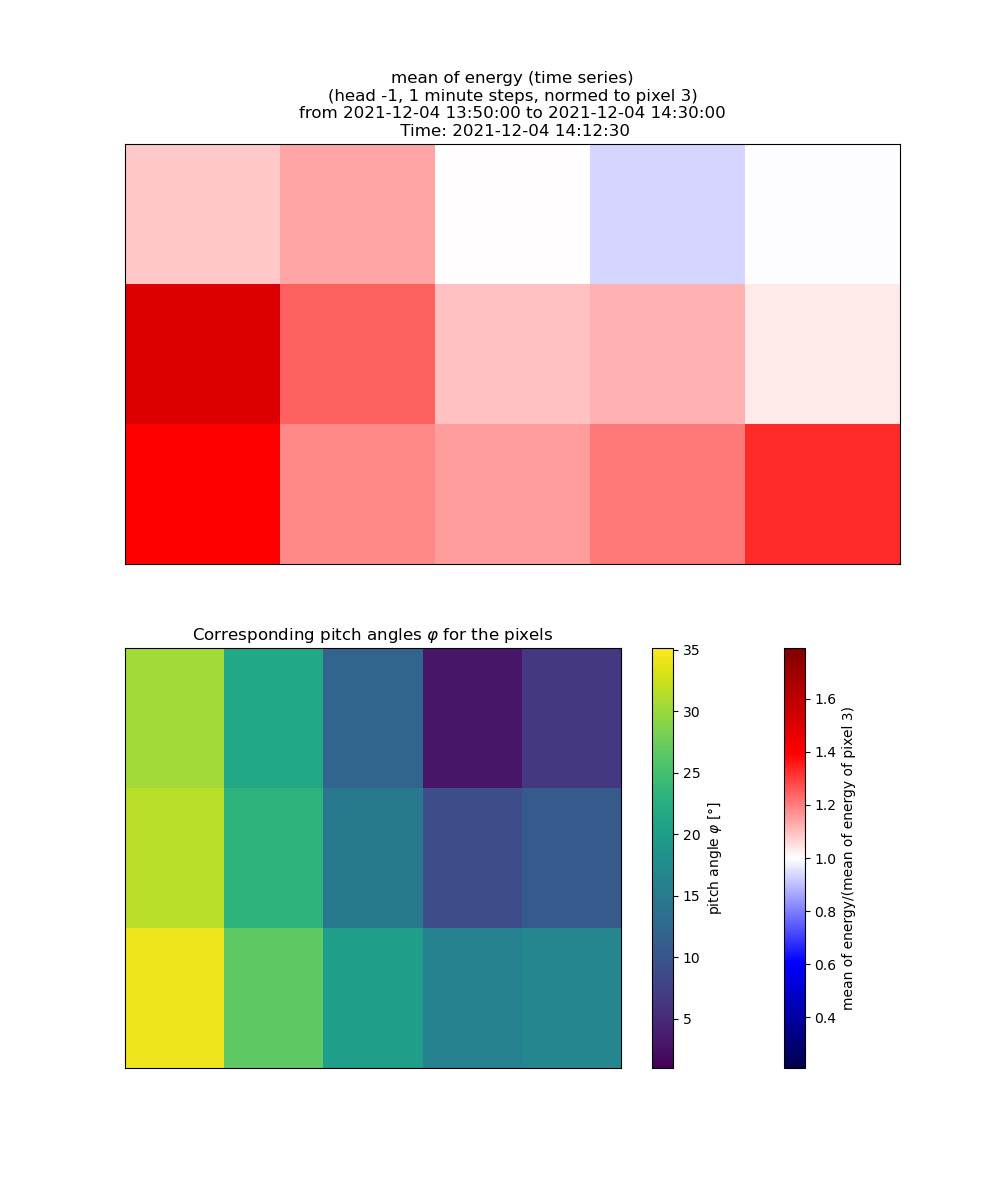
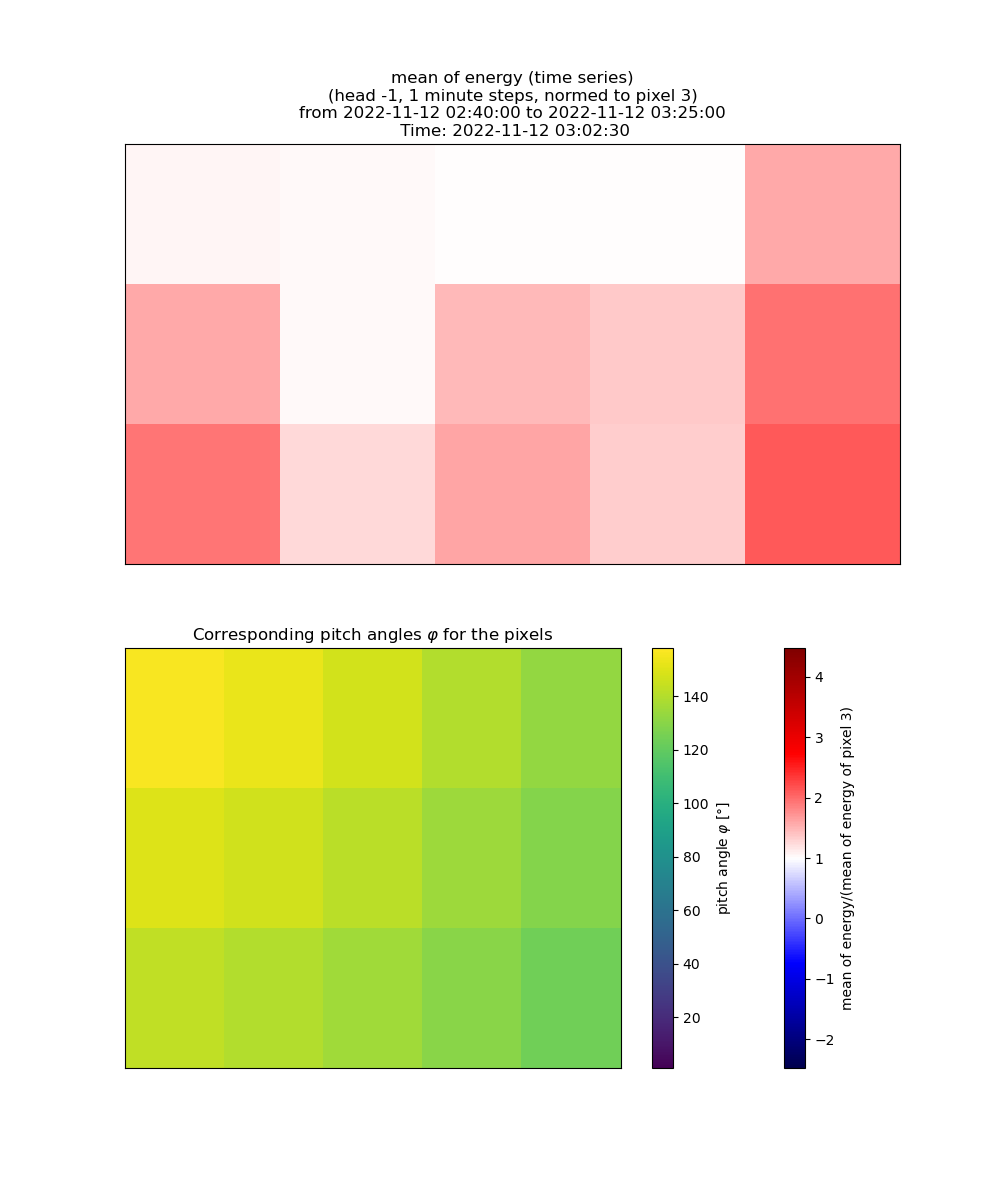
Interessante Asymmetrie bleibt...

diff --git a/total_comparison.py b/total_comparison.py
@@ -23,45 +23,118 @@ ebins = np.array([  0.98 ,   2.144,   2.336,   2.544,   2.784,   3.04 ,   3.312,
 
 ### 2021-12-4 ###
 
-# dat = STEP(2021, 12, 4, mag_path = 'default')
-dat = STEP(2021, 12, 4, rpath='data/STEP/', mag_path='data/mag/srf', mag_frame = 'srf')
-period =(dt.datetime(2021,12,4,13,50),dt.datetime(2021,12,4,14,30))
-def grenz(t):
-    return -0.5*t + 20
+# dat = STEP(2021, 12, 4, mag_path = 'default', mag_frame = 'srf')
+# # dat = STEP(2021, 12, 4, rpath='data/STEP/', mag_path='data/mag/srf', mag_frame = 'srf')
+# period =(dt.datetime(2021,12,4,13,50),dt.datetime(2021,12,4,14,30))
+# def grenz(t):
+#     return -0.5*t + 20
 
 
-pixel_means5, pixel_var5 = dat.calc_energy_means(ebins=ebins,head=-1, period=period, grenzfunktion=grenz, norm='ptmax')
-pw5, pw5_time = dat.calc_pw(period, window_width=5)
+### 2022-11-12 ###
+
+dat = STEP(2022, 11, 12, mag_path='default', mag_frame='srf')
+period = (dt.datetime(2022,11,12,2,40),dt.datetime(2022,11,12,3,25))
+grenz = None
 
 
-dat.plot_ts(period=period, head=-1, save='total_comparison/', norm='tmax',grenzfunktion=grenz)
+### 2022-11-19 ###
 
-# for i in range(1,16):
-#     for j in range(1,16):
-#         # Bei gleichen Pixeln dürfte sich nichts ändern...
-#         dat.pixel_comparison_corrected(pixel_means5, pixel_var5, pw5, f'total_comparison/corrected_energies_5_minutes_pixel_{i}_{j}.png', i, j)
-#         plt.close('all')
+# dat = STEP(2022, 11, 19, mag_path = 'default', mag_frame = 'srf')
+# period = (dt.datetime(2022,11,19,14),dt.datetime(2022,11,19,16,15))
+# grenz = None
 
 
 
+def func_total_comparison(dat=dat, period=period, grenz=grenz):
+    pixel_means5, pixel_var5 = dat.calc_energy_means(ebins=ebins,head=-1, period=period, grenzfunktion=grenz, norm='ptmax')
+    pw5, pw5_time = dat.calc_pw(period, window_width=5)
+    year = str(period[0].year - 2000)
+    if period[0].month < 10:
+        month = '0' + str(period[0].month)
+    else:
+        month = str(period[0].month)
+    if period[0].day < 10:
+        day = '0' + str(period[0].day)
+    else:
+        day = str(period[0].day)
+    
+    
+    dat.plot_ts(period=period, head=-1, save='total_comparison/', norm='ptmax',grenzfunktion=grenz)
+    dat.distribution_ring(f'time_series_energy_means_pw_{year}_{month}_{day}','mean of energy (time series)',head=-1,window_width=1,norm='ptmax',save='total_comparison/',period=period,grenzfunktion=grenz,below=True,close=True)
+    print(f'{year}_{month}_{day}')
+    
+    # for i in range(1,16):
+    #     for j in range(1,16):
+    #         # Bei gleichen Pixeln dürfte sich nichts ändern...
+    #         dat.pixel_comparison_corrected(pixel_means5, pixel_var5, pw5, f'total_comparison/corrected_energies_5_minutes_pixel_{i}_{j}.png', i, j)
+    #         plt.close('all')
+    
+    
+    ### Untersuche Pixel 4 etwas genauer ###
+    
+    for j in range(1,16):
+        dat.pixel_comparison_total(pixel_means5, pixel_var5, pw5, pw5_time, f'total_comparison/pixel4_{year}_{month}_{day}/corrected_energies_total_info_pixel_i=4_{j}.png', 4, j)
+        plt.close('all')
+    
+    for i in range(1,16):
+        dat.pixel_comparison_total(pixel_means5, pixel_var5, pw5, pw5_time, f'total_comparison/pixel4_{year}_{month}_{day}/corrected_energies_total_info_pixel_{i}_j=4.png', i, 4)
+        plt.close('all')
+    
+    
+    ### Teste mal Korrektur auf Pixel 11 ###
+    
+    for j in range(1,16):
+        dat.pixel_comparison_total(pixel_means5, pixel_var5, pw5, pw5_time, f'total_comparison/pixel11_{year}_{month}_{day}/corrected_energies_total_info_pixel_i=11_{j}.png', 11, j)
+        plt.close('all')
+    
+    for i in range(1,16):
+        dat.pixel_comparison_total(pixel_means5, pixel_var5, pw5, pw5_time, f'total_comparison/pixel11_{year}_{month}_{day}/corrected_energies_total_info_pixel_{i}_j=11.png', i, 11)
+        plt.close('all')
+        
+        
+def step_plot_correction(dat=dat, period=period, grenz=grenz):
+    pixel_means, pixel_var = dat.calc_energy_means(ebins=ebins,head=-1, period=period, grenzfunktion=grenz, norm='ptmax')
+    pw, pw_time = dat.calc_pw(period, window_width=5)
+    year = str(period[0].year - 2000)
+    if period[0].month < 10:
+        month = '0' + str(period[0].month)
+    else:
+        month = str(period[0].month)
+    if period[0].day < 10:
+        day = '0' + str(period[0].day)
+    else:
+        day = str(period[0].day)
+    
+    fig, ax = dat.step_plot('time', 'mean of energy [keV]', 'energy means with pitch angle correction')
+    
+    pixel1 = 4
+    for pixel2 in range(1,16):
+        ax[pixel2].errorbar(pixel_means[0],pixel_means[pixel1],yerr=np.sqrt(pixel_var[pixel1]),marker='x',label=f'mean pixel {pixel1}')
+            
+        # Übergebe willkürliche Fehler, da ich diese eh nicht brauche.
+        energy2_corrected = dat.energy_correction(pixel_means[pixel2],pw[pixel1-1],pw[pixel2-1],2,2)[0]
+            
+        ax[pixel2].errorbar(pixel_means[0],energy2_corrected,yerr=np.sqrt(pixel_var[pixel2]),marker='x',label=f'mean pixel {pixel2}')
+        ax[pixel2].tick_params(axis='x',labelrotation=45)
+        ax[pixel2].legend()
+    plt.savefig(f'total_comparison/step_plot_total_correction_energy_means_pixel{pixel1}_{year}_{month}_{day}.png')
+    plt.close('all')
+    
 
-### Untersuche Pixel 4 etwas genauer ###
-
-for j in range(1,16):
-    dat.pixel_comparison_total(pixel_means5, pixel_var5, pw5, pw5_time, f'total_comparison/pixel4_21_12_04/corrected_energies_total_info_pixel_i=4_{j}.png', 4, j)
+    fig, ax = dat.step_plot('time', 'difference of energy means [keV]', 'difference of energy means with correction')
+        
+    for pixel2 in range(1,16):
+        # Übergebe willkürliche Fehler, da ich diese eh nicht brauche.
+        energy2_corrected = dat.energy_correction(pixel_means[pixel2],pw[pixel1-1],pw[pixel2-1],2,2)[0]
+        diff_corrected = energy2_corrected - pixel_means[pixel1]
+        
+        ax[pixel2].plot(pixel_means[0],diff_corrected,marker='x')
+        ax[pixel2].axhline(0,color='tab:red')
+            
+        ax[pixel2].tick_params(axis='x',labelrotation=45)
+    plt.savefig(f'total_comparison/step_plot_total_correction_differences_energy_pixel{pixel1}_{year}_{month}_{day}.png')
     plt.close('all')
 
-for i in range(1,16):
-    dat.pixel_comparison_total(pixel_means5, pixel_var5, pw5, pw5_time, f'total_comparison/pixel4_21_12_04/corrected_energies_total_info_pixel_{i}_j=4.png', i, 4)
-    plt.close('all')
 
-
-### Teste mal Korrektur auf Pixel 11 ###
-
-for j in range(1,16):
-    dat.pixel_comparison_total(pixel_means5, pixel_var5, pw5, pw5_time, f'total_comparison/pixel11_21_12_04/corrected_energies_total_info_pixel_i=11_{j}.png', 11, j)
-    plt.close('all')
-
-for i in range(1,16):
-    dat.pixel_comparison_total(pixel_means5, pixel_var5, pw5, pw5_time, f'total_comparison/pixel11_21_12_04/corrected_energies_total_info_pixel_{i}_j=11.png', i, 11)
-    plt.close('all')
+func_total_comparison(dat,period,grenz)
+step_plot_correction(dat,period,grenz)
